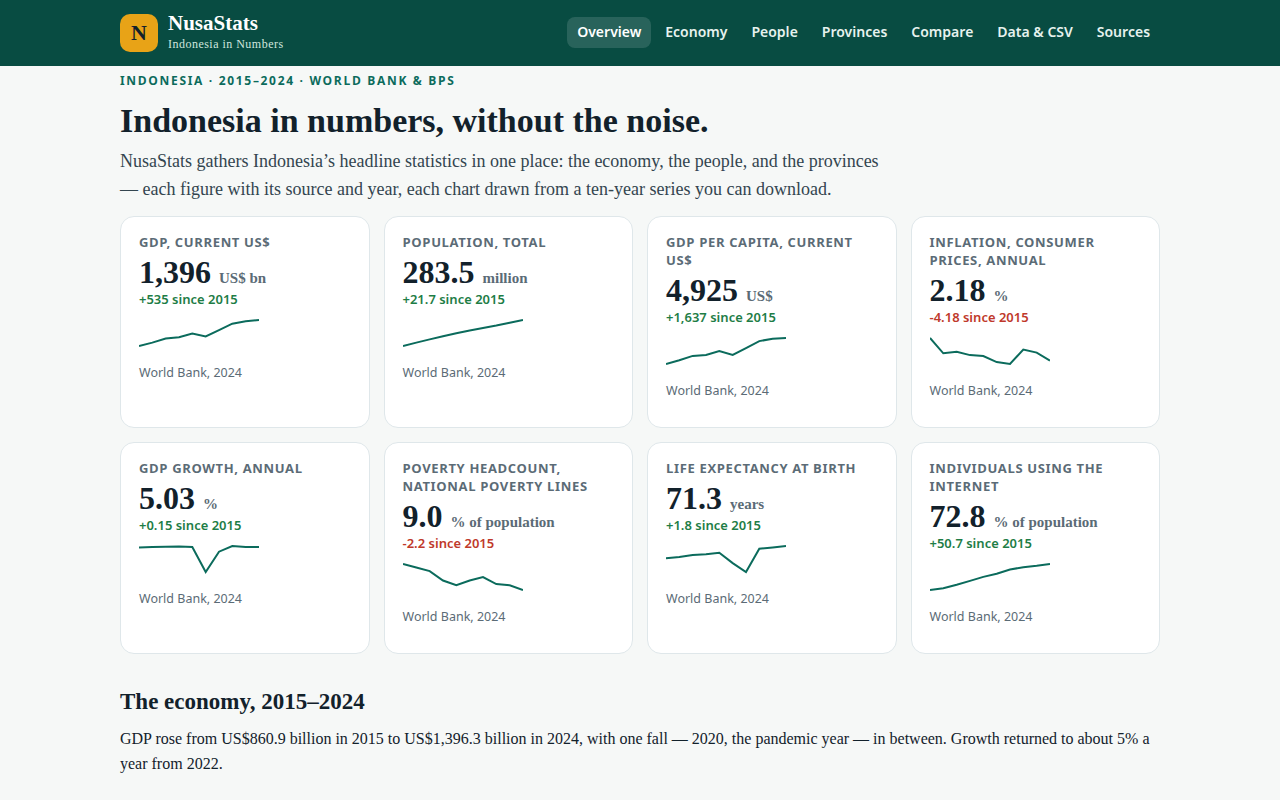
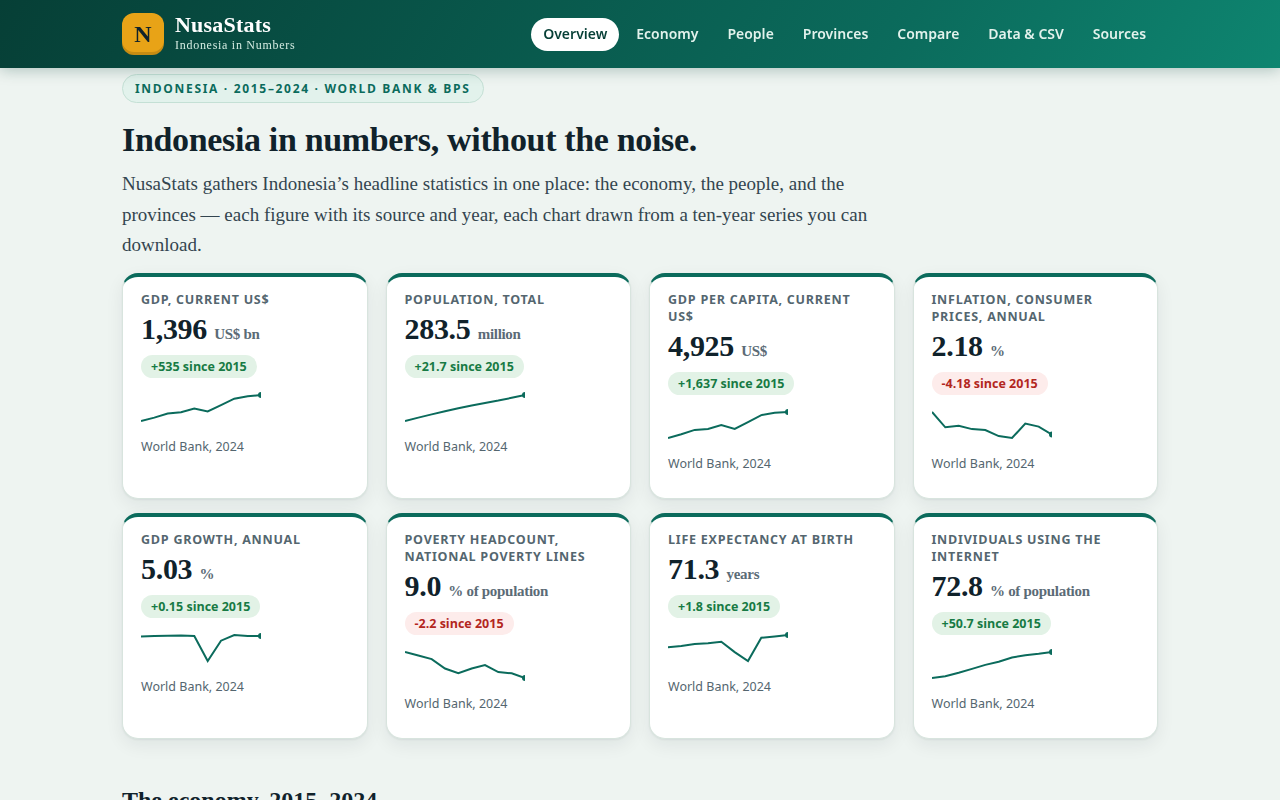
NusaStats UI/UX revision: modern green theme, pill deltas, card charts, bar tracks, sticky table headers, mobile nav scroll, SVG end-value labels

diff --git a/app/style.css b/app/style.css
@@ -1,69 +1,88 @@
 :root{
-  --ink:#12212b; --muted:#5b6b76; --line:#dfe7ea; --bg:#f6f8f7; --card:#ffffff;
-  --teal:#0b6b5c; --teal-dark:#084c42; --amber:#e8a317; --amber-soft:#fdf3d7;
-  --blue:#1d6fb8; --red:#c0392b; --green:#1e7d46; --radius:14px;
+  --ink:#10222b; --muted:#54666f; --line:#d8e4de; --bg:#eef4f1; --card:#ffffff;
+  --teal:#0b6b5c; --teal-dark:#063f36; --teal-mid:#0e8570; --teal-soft:#e2f2ec;
+  --amber:#e8a317; --amber-soft:#fdf3d7; --blue:#1d6fb8; --red:#b3261e; --green:#177a44;
+  --radius:16px; --shadow:0 1px 2px rgba(16,34,43,.06),0 6px 18px rgba(16,34,43,.07);
 }
 *{box-sizing:border-box}
-body{margin:0;font-family:Georgia,"Times New Roman",serif;background:var(--bg);color:var(--ink);line-height:1.55}
-.wrap{max-width:1080px;margin:0 auto;padding:0 20px}
-a{color:var(--teal)}
-.top{background:var(--teal-dark);color:#fff;position:sticky;top:0;z-index:5}
-.top-in{display:flex;align-items:center;gap:24px;padding:12px 20px;flex-wrap:wrap}
-.brand{display:flex;align-items:center;gap:10px;color:#fff;text-decoration:none}
-.mark{display:inline-flex;width:38px;height:38px;border-radius:10px;background:var(--amber);color:#12212b;align-items:center;justify-content:center;font:700 22px Georgia,serif}
-.brand strong{display:block;font-size:21px;line-height:1.1}
-.brand em{display:block;font-style:normal;font-size:12px;color:#cfe6df;letter-spacing:.04em}
-nav{display:flex;gap:4px;flex-wrap:wrap;margin-left:auto}
-nav a{color:#e6f2ee;text-decoration:none;padding:7px 10px;border-radius:8px;font:600 14px/1.2 system-ui,Arial,sans-serif}
-nav a:hover,nav a.on{background:#ffffff22;color:#fff}
-main{padding:28px 0 40px}
-h1{font-size:34px;line-height:1.15;margin:4px 0 8px}
-h2{font-size:23px;margin:30px 0 8px}
+body{margin:0;font-family:Georgia,"Times New Roman",serif;background:var(--bg);color:var(--ink);line-height:1.6}
+.wrap{max-width:1080px;margin:0 auto;padding:0 22px}
+a{color:var(--teal);text-underline-offset:2px}
+.top{background:linear-gradient(120deg,var(--teal-dark),var(--teal) 70%,var(--teal-mid));color:#fff;position:sticky;top:0;z-index:5;box-shadow:0 2px 14px rgba(6,63,54,.28)}
+.top-in{display:flex;align-items:center;gap:26px;padding:13px 22px;flex-wrap:wrap}
+.brand{display:flex;align-items:center;gap:11px;color:#fff;text-decoration:none}
+.mark{display:inline-flex;width:42px;height:42px;border-radius:12px;background:var(--amber);color:#10222b;align-items:center;justify-content:center;font:700 24px Georgia,serif;box-shadow:inset 0 -3px 0 rgba(0,0,0,.14)}
+.brand strong{display:block;font-size:22px;line-height:1.05;letter-spacing:.01em}
+.brand em{display:block;font-style:normal;font-size:12px;color:#d3ebe1;letter-spacing:.06em}
+nav{display:flex;gap:5px;flex-wrap:wrap;margin-left:auto}
+nav a{color:#e2f2ec;text-decoration:none;padding:8px 12px;border-radius:999px;font:600 14px/1.2 system-ui,Arial,sans-serif}
+nav a:hover{background:#ffffff26;color:#fff}
+nav a.on{background:#fff;color:var(--teal-dark)}
+main{padding:28px 0 48px}
+h1{font-size:34px;line-height:1.12;margin:6px 0 10px;letter-spacing:-.01em}
+h2{font-size:24px;margin:36px 0 8px;padding-top:6px}
+h2::after{content:"";display:block;width:56px;height:4px;border-radius:99px;background:var(--amber);margin-top:8px}
 h3{font-size:18px;margin:18px 0 6px}
 p{margin:6px 0 12px}
-.lede{font-size:18px;color:#33454f;max-width:760px}
-.kicker{font:700 12px system-ui,Arial,sans-serif;letter-spacing:.14em;text-transform:uppercase;color:var(--teal)}
-.src{font:400 12.5px system-ui,Arial,sans-serif;color:var(--muted)}
-.note{background:var(--amber-soft);border:1px solid #ecd27a;border-radius:10px;padding:10px 14px;font-size:14px}
-.grid{display:grid;gap:14px}
+.lede{font-size:19px;color:#33454f;max-width:780px}
+.kicker{display:inline-block;font:700 12px system-ui,Arial,sans-serif;letter-spacing:.14em;text-transform:uppercase;color:var(--teal);background:var(--teal-soft);border:1px solid #c4e0d5;border-radius:999px;padding:5px 12px}
+.src{font:400 12.5px/1.5 system-ui,Arial,sans-serif;color:var(--muted)}
+.note{background:var(--amber-soft);border:1px solid #ecd27a;border-radius:12px;padding:12px 16px;font-size:14px}
+.grid{display:grid;gap:18px}
 .kpis{grid-template-columns:repeat(4,1fr)}
-.card{background:var(--card);border:1px solid var(--line);border-radius:var(--radius);padding:16px 18px}
-.card h3{margin:0 0 4px;font:700 13px system-ui,Arial,sans-serif;letter-spacing:.05em;text-transform:uppercase;color:var(--muted)}
-.big{font-size:32px;line-height:1.1;font-weight:700}
+.card{background:var(--card);border:1px solid var(--line);border-radius:var(--radius);padding:18px 20px;box-shadow:var(--shadow)}
+.card h3{margin:0 0 5px;font:700 12.5px system-ui,Arial,sans-serif;letter-spacing:.06em;text-transform:uppercase;color:var(--muted)}
+.kpis .card{border-top:4px solid var(--teal);padding:14px 18px 12px}
+.big{font-size:30px;line-height:1.08;font-weight:700;letter-spacing:-.01em}
 .delta{font:600 13px system-ui,Arial,sans-serif}
+.pill{display:inline-block;border-radius:999px;padding:3px 10px;font:700 12.5px system-ui,Arial,sans-serif}
+.pill.up{background:#e2f2e6;color:var(--green)}
+.pill.down{background:#fdeceb;color:var(--red)}
+.pill.flat{background:#eef2f3;color:var(--muted)}
 .up{color:var(--green)} .down{color:var(--red)} .flat{color:var(--muted)}
-.spark{margin-top:8px}
+.spark{margin-top:10px}
 .two{grid-template-columns:1fr 1fr}
 .three{grid-template-columns:repeat(3,1fr)}
-.tabs{display:flex;gap:8px;flex-wrap:wrap;margin:14px 0}
-.tabs button{border:1px solid var(--line);background:#fff;border-radius:999px;padding:8px 14px;font:600 14px system-ui,Arial,sans-serif;cursor:pointer;color:var(--ink)}
-.tabs button.on{background:var(--teal);border-color:var(--teal);color:#fff}
+.chart-card{padding:20px 22px}
+.tabs{display:flex;gap:8px;flex-wrap:wrap;margin:16px 0;background:#fff;border:1px solid var(--line);border-radius:999px;padding:5px;width:fit-content;max-width:100%;box-shadow:var(--shadow)}
+.tabs button{border:0;background:transparent;border-radius:999px;padding:8px 14px;font:600 14px system-ui,Arial,sans-serif;cursor:pointer;color:var(--ink)}
+.tabs button.on{background:var(--teal);color:#fff;box-shadow:0 2px 8px rgba(11,107,92,.35)}
 .chart{width:100%;height:auto;display:block}
-.axis{font:11px system-ui,Arial,sans-serif;fill:#7a8a93}
+.axis{font:12px system-ui,Arial,sans-serif;fill:#5b6b76}
+.axis-val{font:700 12px system-ui,Arial,sans-serif;fill:var(--teal-dark)}
+.table-wrap{overflow-x:auto;background:#fff;border:1px solid var(--line);border-radius:var(--radius);box-shadow:var(--shadow)}
+.table-wrap table{border-radius:0}
 table{width:100%;border-collapse:collapse;background:#fff;font:14px system-ui,Arial,sans-serif}
-th,td{padding:9px 10px;border-bottom:1px solid var(--line);text-align:left}
-th{background:#eef4f2;cursor:pointer;white-space:nowrap}
+th,td{padding:11px 12px;border-bottom:1px solid var(--line);text-align:left}
+thead th{position:sticky;top:0;background:#dcebe5;color:var(--teal-dark);font-size:13px;cursor:pointer;white-space:nowrap}
+tbody tr:nth-child(even) td{background:#f7faf8}
 td.num,th.num{text-align:right;font-variant-numeric:tabular-nums}
-tr:hover td{background:#f4f8f7}
-input,select{font:400 15px system-ui,Arial,sans-serif;padding:9px 11px;border:1px solid #b9c6cb;border-radius:9px;background:#fff;color:var(--ink)}
-label{font:600 13px system-ui,Arial,sans-serif;display:block;margin:10px 0 4px}
-button.btn{background:var(--teal);color:#fff;border:0;border-radius:9px;padding:10px 16px;font:700 15px system-ui,Arial,sans-serif;cursor:pointer}
+tr:hover td{background:#eef6f2}
+input,select{font:400 15px system-ui,Arial,sans-serif;padding:11px 13px;border:1.5px solid #b9c6cb;border-radius:10px;background:#fff;color:var(--ink);width:100%}
+input:focus,select:focus{outline:3px solid #bfe3d6;border-color:var(--teal)}
+label{font:700 13px system-ui,Arial,sans-serif;display:block;margin:12px 0 5px}
+button.btn{background:var(--teal);color:#fff;border:0;border-radius:10px;padding:12px 20px;font:700 15px system-ui,Arial,sans-serif;cursor:pointer;box-shadow:0 3px 10px rgba(11,107,92,.28)}
 button.btn:hover{background:var(--teal-dark)}
-button.ghost{background:#fff;color:var(--teal);border:1px solid var(--teal)}
-.bar-row{display:grid;grid-template-columns:170px 1fr 74px;gap:10px;align-items:center;margin:7px 0;font:14px system-ui,Arial,sans-serif}
-.bar{height:16px;background:#e3ebe8;border-radius:99px;overflow:hidden}
-.bar i{display:block;height:100%;background:var(--teal);border-radius:99px}
-.bar i.b{background:var(--blue)}
+button.ghost{background:#fff;color:var(--teal);border:1.5px solid var(--teal);box-shadow:none}
+.bar-row{display:grid;grid-template-columns:170px 1fr 84px;gap:12px;align-items:center;margin:9px 0;font:14px system-ui,Arial,sans-serif}
+.bar{height:20px;background:#e6efe9;border-radius:99px;overflow:hidden;box-shadow:inset 0 1px 3px rgba(16,34,43,.12)}
+.bar i{display:block;height:100%;background:linear-gradient(90deg,var(--teal-mid),var(--teal));border-radius:99px}
+.bar i.b{background:linear-gradient(90deg,#3a8fd0,var(--blue))}
 .legend{font:13px system-ui,Arial,sans-serif;color:var(--muted)}
-.callout{border-left:5px solid var(--amber);background:#fff;padding:12px 16px;border-radius:0 10px 10px 0}
-footer{background:#12212b;color:#b9cdd2;padding:26px 0 34px;font:13px system-ui,Arial,sans-serif}
+.callout{border-left:5px solid var(--amber);background:#fff;padding:14px 18px;border-radius:0 12px 12px 0;box-shadow:var(--shadow)}
+footer{background:#10222b;color:#b9cdd2;padding:30px 0 38px;font:13px/1.6 system-ui,Arial,sans-serif}
 footer strong{color:#fff}
 @media (max-width:860px){
   .kpis{grid-template-columns:repeat(2,1fr)}
   .two,.three{grid-template-columns:1fr}
-  h1{font-size:27px}
-  .top-in{gap:10px}
-  nav{margin-left:0}
-  .bar-row{grid-template-columns:110px 1fr 62px}
-  th,td{padding:7px 6px;font-size:13px}
+  h1{font-size:29px}
+  main{padding:26px 0 36px}
+  .top-in{gap:8px;padding:10px 16px}
+  .wrap{padding:0 16px}
+  nav{margin-left:0;flex-wrap:nowrap;overflow-x:auto;width:100%;padding-bottom:4px;scrollbar-width:none}
+  nav a{white-space:nowrap}
+  .bar-row{grid-template-columns:104px 1fr 66px}
+  th,td{padding:9px 8px;font-size:13px}
+  .big{font-size:28px}
+  .tabs{border-radius:14px;width:100%}
 }

diff --git a/app/charts.js b/app/charts.js
@@ -1,40 +1,51 @@
 // Small, dependency-free SVG charts. All charts are drawn from the data
 // files; nothing is fetched, and no chart library is vendored.
+// Revision: softer area fill, a highlighted 2024 point with its value,
+// fewer, lighter gridlines, and bar tracks so bars read at a glance.
 import { YEARS } from "./data.js";
 function esc(s) { return String(s).replace(/&/g, "&amp;").replace(/</g, "&lt;"); }
 export function lineChart(values, opts) {
-  const o = Object.assign({ color: "#0b6b5c", w: 680, h: 260, dec: 1, unit: "" }, opts || {});
-  const padL = 58, padR = 12, padT = 14, padB = 28;
+  const o = Object.assign({ color: "#0b6b5c", w: 680, h: 270, dec: 1, unit: "" }, opts || {});
+  const padL = 60, padR = 14, padT = 26, padB = 30;
   const min = Math.min.apply(null, values), max = Math.max.apply(null, values);
-  const span = (max - min) || 1, lo = min - span * 0.12, hi = max + span * 0.12;
+  const span = (max - min) || 1, lo = min - span * 0.14, hi = max + span * 0.14;
   const x = i => padL + i * (o.w - padL - padR) / (values.length - 1);
   const y = v => padT + (hi - v) * (o.h - padT - padB) / (hi - lo);
   const pts = values.map((v, i) => x(i).toFixed(1) + "," + y(v).toFixed(1)).join(" ");
+  const area = padL + "," + (o.h - padB) + " " + pts + " " + x(values.length - 1).toFixed(1) + "," + (o.h - padB);
+  const fmtV = v => v.toLocaleString("en-US", { minimumFractionDigits: o.dec, maximumFractionDigits: o.dec });
   let grid = "";
-  for (let g = 0; g <= 3; g++) {
-    const v = lo + (hi - lo) * g / 3, yy = y(v);
-    grid += '<line x1="' + padL + '" y1="' + yy.toFixed(1) + '" x2="' + (o.w - padR) + '" y2="' + yy.toFixed(1) + '" stroke="#e3ebe8"/>' +
-      '<text class="axis" x="' + (padL - 6) + '" y="' + (yy + 4).toFixed(1) + '" text-anchor="end">' + v.toFixed(o.dec) + "</text>";
+  for (let g = 0; g <= 2; g++) {
+    const v = lo + (hi - lo) * g / 2, yy = y(v);
+    grid += '<line x1="' + padL + '" y1="' + yy.toFixed(1) + '" x2="' + (o.w - padR) + '" y2="' + yy.toFixed(1) + '" stroke="#e6efe9"/>' +
+      '<text class="axis" x="' + (padL - 8) + '" y="' + (yy + 4).toFixed(1) + '" text-anchor="end">' + v.toFixed(o.dec) + "</text>";
   }
   let labels = "";
-  YEARS.forEach((yr, i) => { if (i % 2 === 0) labels += '<text class="axis" x="' + x(i).toFixed(1) + '" y="' + (o.h - 8) + '" text-anchor="middle">' + yr + "</text>"; });
+  YEARS.forEach((yr, i) => { if (i % 2 === 0) labels += '<text class="axis" x="' + x(i).toFixed(1) + '" y="' + (o.h - 9) + '" text-anchor="middle">' + yr + "</text>"; });
   let dots = "";
-  values.forEach((v, i) => { dots += '<circle cx="' + x(i).toFixed(1) + '" cy="' + y(v).toFixed(1) + '" r="3.5" fill="' + o.color + '"><title>' + YEARS[i] + ": " + v.toLocaleString("en-US") + (o.unit ? " " + esc(o.unit) : "") + "</title></circle>"; });
+  values.forEach((v, i) => {
+    const last = i === values.length - 1;
+    dots += '<circle cx="' + x(i).toFixed(1) + '" cy="' + y(v).toFixed(1) + '" r="' + (last ? 5 : 3) + '" fill="' + o.color + '"' + (last ? ' stroke="#fff" stroke-width="2"' : "") + '><title>' + YEARS[i] + ": " + fmtV(v) + (o.unit ? " " + esc(o.unit) : "") + "</title></circle>";
+  });
+  const endLabel = '<text class="axis-val" x="' + x(values.length - 1).toFixed(1) + '" y="' + (y(values[values.length - 1]) - 12).toFixed(1) + '" text-anchor="end">' + fmtV(values[values.length - 1]) + (o.unit ? " " + esc(o.unit) : "") + " · 2024</text>";
+  const startLabel = '<text class="axis" x="' + x(0).toFixed(1) + '" y="' + (y(values[0]) - 10).toFixed(1) + '" text-anchor="start">' + fmtV(values[0]) + " · 2015</text>";
   return '<svg class="chart" viewBox="0 0 ' + o.w + " " + o.h + '" role="img" aria-label="Line chart, 2015 to 2024">' +
-    grid + '<polyline points="' + pts + '" fill="none" stroke="' + o.color + '" stroke-width="2.5" stroke-linejoin="round"/>' +
-    dots + labels + "</svg>";
+    grid + '<polygon points="' + area + '" fill="' + o.color + '" opacity="0.08"/>' +
+    '<polyline points="' + pts + '" fill="none" stroke="' + o.color + '" stroke-width="2.75" stroke-linejoin="round" stroke-linecap="round"/>' +
+    dots + startLabel + endLabel + labels + "</svg>";
 }
 export function barChart(rows, opts) {
-  // rows: [{label, value}] — horizontal bars, value shown at the end.
+  // rows: [{label, value}] — horizontal bars on a light track, value at the end.
   const o = Object.assign({ color: "#0b6b5c", w: 680, dec: 1, unit: "" }, opts || {});
   const max = Math.max.apply(null, rows.map(r => r.value)) || 1;
-  const rowH = 34, h = rows.length * rowH + 8;
+  const rowH = 36, h = rows.length * rowH + 10;
   let body = "";
   rows.forEach((r, i) => {
-    const yy = 8 + i * rowH, bw = Math.max(2, (r.value / max) * 420);
-    body += '<text class="axis" x="0" y="' + (yy + 15) + '">' + esc(r.label) + "</text>" +
-      '<rect x="150" y="' + (yy + 2) + '" width="' + bw.toFixed(1) + '" height="18" rx="4" fill="' + o.color + '"/>' +
-      '<text class="axis" x="' + (158 + bw).toFixed(1) + '" y="' + (yy + 15) + '">' + r.value.toLocaleString("en-US", { minimumFractionDigits: o.dec, maximumFractionDigits: o.dec }) + (o.unit ? " " + esc(o.unit) : "") + "</text>";
+    const yy = 10 + i * rowH, bw = Math.max(3, (r.value / max) * 420);
+    body += '<text class="axis" x="0" y="' + (yy + 16) + '" font-weight="600" fill="#33454f">' + esc(r.label) + "</text>" +
+      '<rect x="150" y="' + (yy + 3) + '" width="420" height="20" rx="10" fill="#e6efe9"/>' +
+      '<rect x="150" y="' + (yy + 3) + '" width="' + bw.toFixed(1) + '" height="20" rx="10" fill="' + o.color + '"/>' +
+      '<text class="axis-val" x="' + (580) + '" y="' + (yy + 17) + '" text-anchor="start">' + r.value.toLocaleString("en-US", { minimumFractionDigits: o.dec, maximumFractionDigits: o.dec }) + (o.unit ? " " + esc(o.unit) : "") + "</text>";
   });
   return '<svg class="chart" viewBox="0 0 ' + o.w + " " + h + '" role="img" aria-label="Bar chart">' + body + "</svg>";
 }
@@ -42,5 +53,6 @@ export function spark(values, color) {
   const w = 120, h = 34, min = Math.min.apply(null, values), max = Math.max.apply(null, values);
   const span = (max - min) || 1;
   const pts = values.map((v, i) => (i * w / (values.length - 1)).toFixed(1) + "," + (h - 4 - (v - min) / span * (h - 8)).toFixed(1)).join(" ");
-  return '<svg class="spark" width="' + w + '" height="' + h + '" viewBox="0 0 ' + w + " " + h + '" aria-hidden="true"><polyline points="' + pts + '" fill="none" stroke="' + (color || "#0b6b5c") + '" stroke-width="2"/></svg>';
+  const lastX = w, lastY = h - 4 - (values[values.length - 1] - min) / span * (h - 8);
+  return '<svg class="spark" width="' + w + '" height="' + h + '" viewBox="0 0 ' + w + " " + h + '" aria-hidden="true"><polyline points="' + pts + '" fill="none" stroke="' + (color || "#0b6b5c") + '" stroke-width="2"/><circle cx="' + lastX.toFixed(1) + '" cy="' + lastY.toFixed(1) + '" r="3" fill="' + (color || "#0b6b5c") + '"/></svg>';
 }

diff --git a/app/views.js b/app/views.js
@@ -12,21 +12,21 @@ function kpi(key, note) {
   const sign = d > 0 ? "+" : "";
   return '<div class="card"><h3>' + ind.label + '</h3><div class="big">' + fmt(v, ind.dec) +
     ' <span style="font-size:15px;color:#5b6b76">' + ind.unit + "</span></div>" +
-    '<div class="delta ' + cls + '">' + sign + fmt(d, ind.dec) + " since 2015</div>" +
+    '<div style="margin:8px 0 2px"><span class="pill ' + cls + '">' + sign + fmt(d, ind.dec) + " since 2015</span></div>" +
     spark(ind.values) + '<p class="src">' + (note || "World Bank, 2024") + "</p></div>";
 }
 function chartBlock(key, title, blurb) {
   const ind = INDICATORS[key];
   return "<h2>" + title + "</h2><p>" + blurb + "</p>" +
-    lineChart(ind.values, { dec: ind.dec, unit: ind.unit }) +
+    '<div class="card chart-card">' + lineChart(ind.values, { dec: ind.dec, unit: ind.unit }) + "</div>" +
     '<p class="src">Source: World Bank Open Data, indicator ' + ind.code + " — " + ind.label +
     ", Indonesia, 2015–2024. Latest value: " + fmt(last(key), ind.dec) + " " + ind.unit + " (2024).</p>";
 }
 function tableRows(keys) {
-  return "<table><thead><tr><th>Indicator</th><th class='num'>2015</th><th class='num'>2020</th><th class='num'>2024</th><th class='num'>Change 2015–24</th></tr></thead><tbody>" +
+  return '<div class="table-wrap"><table><thead><tr><th>Indicator</th><th class=\'num\'>2015</th><th class=\'num\'>2020</th><th class=\'num\'>2024</th><th class=\'num\'>Change 2015–24</th></tr></thead><tbody>' +
     keys.map(k => { const ind = INDICATORS[k];
       return "<tr><td>" + ind.label + "</td><td class='num'>" + fmt(ind.values[0], ind.dec) + "</td><td class='num'>" + fmt(ind.values[5], ind.dec) + "</td><td class='num'><strong>" + fmt(ind.values[9], ind.dec) + "</strong></td><td class='num'>" + (change(k) > 0 ? "+" : "") + fmt(change(k), ind.dec) + " " + ind.unit + "</td></tr>";
-    }).join("") + "</tbody></table>";
+    }).join("") + "</tbody></table></div>";
 }
 
 export function home() {
@@ -101,9 +101,9 @@ export function provinces() {
 }
 export function provTable(list) {
   const cell = v => v === null || v === undefined ? "—" : v;
-  return "<table><thead><tr><th data-s='name'>Province</th><th class='num' data-s='pop'>Population 2024</th><th class='num' data-s='poverty'>Poverty % (Sep 2024)</th><th class='num' data-s='tpt'>Unemployment % (Aug 2024)</th><th class='num' data-s='hdi'>HDI 2024</th><th class='num' data-s='grdpPcap'>GRDP/capita Rp m</th></tr></thead><tbody>" +
+  return '<div class="table-wrap"><table><thead><tr><th data-s=\'name\'>Province</th><th class=\'num\' data-s=\'pop\'>Population 2024</th><th class=\'num\' data-s=\'poverty\'>Poverty % (Sep 2024)</th><th class=\'num\' data-s=\'tpt\'>Unemployment % (Aug 2024)</th><th class=\'num\' data-s=\'hdi\'>HDI 2024</th><th class=\'num\' data-s=\'grdpPcap\'>GRDP/capita Rp m</th></tr></thead><tbody>' +
     list.map(p => "<tr><td><strong>" + p.name + "</strong></td><td class='num'>" + (p.pop ? p.pop.toLocaleString("en-US") : "—") + "</td><td class='num'>" + cell(p.poverty === null ? null : p.poverty.toFixed(2)) + "</td><td class='num'>" + cell(p.tpt === null ? null : p.tpt.toFixed(2)) + "</td><td class='num'>" + cell(p.hdi === null ? null : p.hdi.toFixed(2)) + "</td><td class='num'>" + cell(p.grdpPcap === null ? null : p.grdpPcap.toFixed(2)) + "</td></tr>").join("") +
-    "</tbody></table><p class='src'>Click a column heading to sort. GRDP per capita is shown only for the five provinces verified at current prices (DKI Jakarta 344.35, East Kalimantan 212.18, North Kalimantan 198.43, Riau 165.35, Riau Islands 161.42 Rp million).</p>";
+    "</tbody></table></div><p class='src'>Click a column heading to sort. GRDP per capita is shown only for the five provinces verified at current prices (DKI Jakarta 344.35, East Kalimantan 212.18, North Kalimantan 198.43, Riau 165.35, Riau Islands 161.42 Rp million).</p>";
 }
 
 export function compare() {

diff --git a/app/main.js b/app/main.js
@@ -49,7 +49,7 @@ function wire(key) {
       const ind = INDICATORS[b.dataset.k];
       document.getElementById("econ-chart").innerHTML =
         "<h2>" + ind.label + "</h2><p>" + ind.label + ", Indonesia, 2015–2024.</p>" +
-        '<div id="chart-holder"></div><p class="src">Source: World Bank Open Data, indicator ' + ind.code + ", 2015–2024. Latest: " + fmt(ind.values[9], ind.dec) + " " + ind.unit + " (2024).</p>";
+        '<div class="card chart-card" id="chart-holder"></div><p class="src">Source: World Bank Open Data, indicator ' + ind.code + ", 2015–2024. Latest: " + fmt(ind.values[9], ind.dec) + " " + ind.unit + " (2024).</p>";
       import("./charts.js").then(m => {
         document.getElementById("chart-holder").innerHTML = m.lineChart(ind.values, { dec: ind.dec, unit: ind.unit });
       });
@@ -106,7 +106,10 @@ function wire(key) {
     document.getElementById("csv-btn").addEventListener("click", () => download("nusastats-indonesia-national-2015-2024.csv", nationalCsv()));
     document.getElementById("csv-prov-btn").addEventListener("click", () => download("nusastats-indonesia-provinces-2024.csv", provCsv()));
     let sortKey = "pop", asc = false;
-    document.querySelectorAll("#app table th").forEach(th => th.addEventListener("click", () => {
+    if (app.dataset.dataSortBound) return;
+    app.dataset.dataSortBound = "1";
+    app.addEventListener("click", e => {
+      const th = e.target.closest("th"); if (!th) return;
       const k = th.dataset.s; if (!k) return;
       if (k === sortKey) asc = !asc; else { sortKey = k; asc = k === "name"; }
       const list = PROVINCES.slice().sort((a, b) => {
@@ -116,9 +119,9 @@ function wire(key) {
         if (typeof av === "string") return asc ? av.localeCompare(bv) : bv.localeCompare(av);
         return asc ? av - bv : bv - av;
       });
-      const tables = document.querySelectorAll("#app table");
-      if (tables[1]) tables[1].outerHTML = provTable(list);
-    }));
+      const wrap = document.querySelectorAll("#app .table-wrap")[1];
+      if (wrap) wrap.outerHTML = provTable(list);
+    });
   }
 }
 window.addEventListener("hashchange", render);
